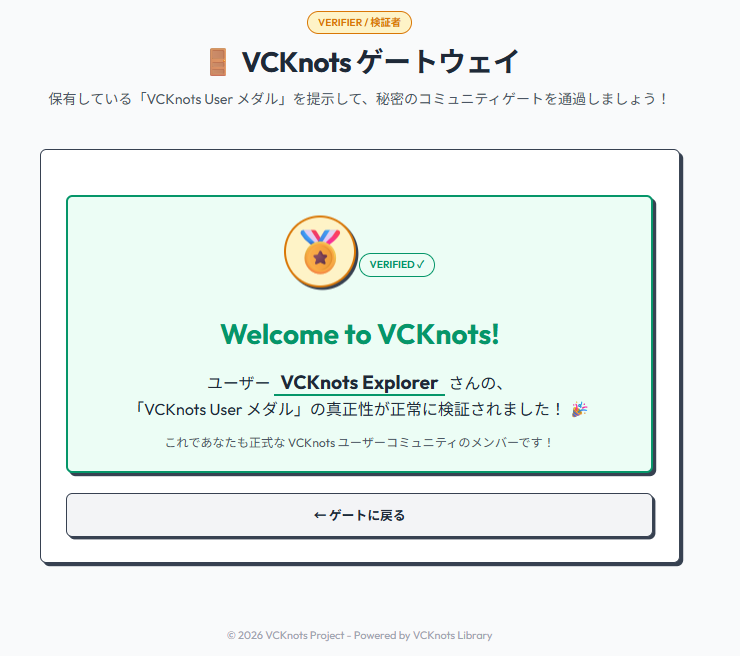
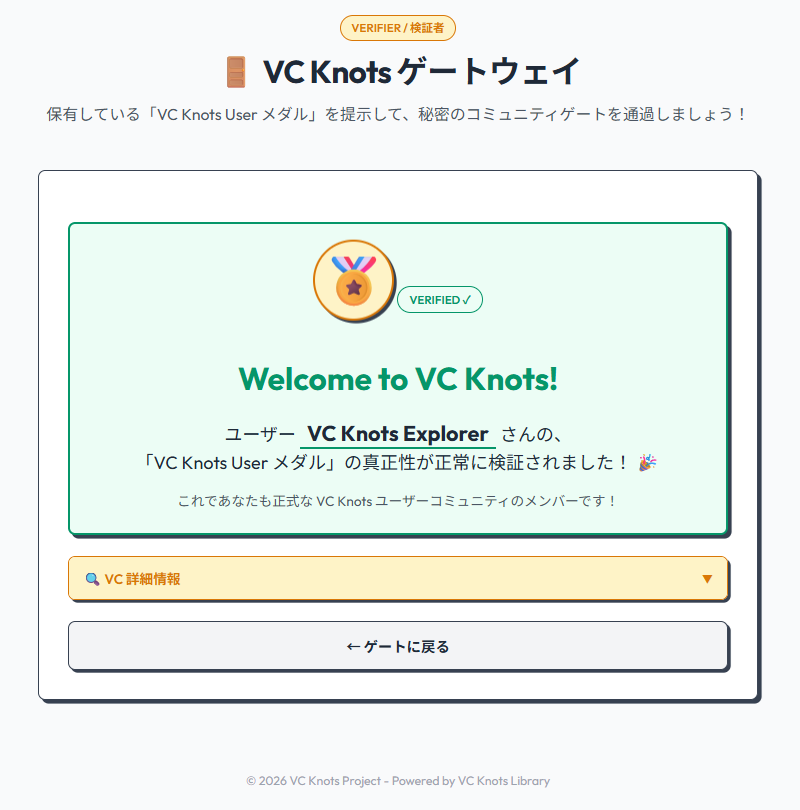
docs: update README

Changed region(s): [[0.0311, 0.2134, 0.9635, 0.8841], [0.0622, 0.0, 0.9324, 0.1829], [0.3108, 0.9451, 0.6838, 0.9756]]

diff --git a/README.md b/README.md
@@ -127,7 +127,7 @@ Wallet Web UI: http://localhost:8082
 <img src="docs/screenshots/step2-wallet-01.png" alt="Wallet: Offer URL 入力" width="600">
 
 4. OpenID4VCI プロトコルによる通信が行われ、数秒後に **「My Medals（保有メダル）」** グリッドに、美しいフラットデザインの **「🏅 VC Knots User Medal」** カードが追加されます！
-5. カード内の **「Username」** が Issuer で入力した名前になっていること、および発行日やステータスが正しく描画されていることを確認します。
+5. カード内の **「Username」** が Issuer で入力した名前になっていること、および発行日が正しく描画されていることを確認します。
 
 <img src="docs/screenshots/step2-wallet-02.png" alt="Wallet: メダル獲得後のコレクション表示" width="600">
 
@@ -149,14 +149,22 @@ Wallet Web UI: http://localhost:8082
 
 <img src="docs/screenshots/step3-wallet-03.png" alt="Wallet: メダル提示 Request URL 入力" width="600">
 
-8. 提示が成功すると、Wallet 側で「提示に成功しました！」と表示されます。
+8. 提示するメダル（VC）を選択し、**「✓ この VC で提示する」** ボタンをクリックします。
+
+<img src="docs/screenshots/step3-wallet-06.png" alt="Wallet: 提示する VC の選択" width="600">
+
+9. 提示が成功すると、Wallet 側で「✓ メダルを正常に提示しました！」とダイアログが表示されます。
 
 <img src="docs/screenshots/step3-wallet-04.png" alt="Wallet: 提示成功" width="600">
 
-9. **Verifier 画面** に戻ると、ポーリングによって提示された VC をリアルタイムで検証・検知し、自動的に **歓迎画面（Welcome to VC Knots!）** に切り替わります！🎉
-10. 歓迎カードに、あなたがメダル獲得時に入力したユーザー名（例: `Welcome to VC Knots, Taro! 🏅`）が大きなフラットバナーで表示され、メダルの署名の真正性や検証時間が美しくフラットに表示されていることを確認してください。
+10. **Verifier 画面** に戻ると、ポーリングによって提示された VC をリアルタイムで検証・検知し、自動的に **歓迎画面（Welcome to VC Knots!）** に切り替わります！🎉
+11. 歓迎カードに、あなたがメダル獲得時に入力したユーザー名（例: `Welcome to VC Knots, Taro! 🏅`）が大きなフラットバナーで表示され、メダルの真正性が正常に検証されたことを確認してください。
 
 <img src="docs/screenshots/step3-verifier-05.png" alt="Verifier: Welcome to VC Knots! ウェルカム画面" width="600">
+
+12. 提示されたVCの詳細情報は **「VC詳細情報」** をクリックで展開されます。
+
+<img src="docs/screenshots/step3-verifier-06.png" alt="Verifier: Welcome to VC Knots! ウェルカム画面" width="600">
 
 ---
 
